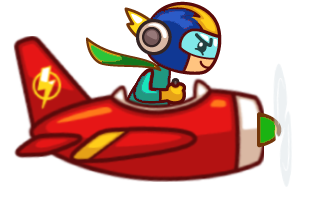
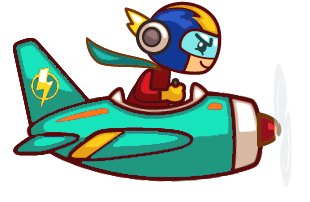
Addedd more components and minor changes

diff --git a/server.js b/server.js
@@ -16,7 +16,7 @@ const client = new NFTStorage({ token: apiKey });
 app.get("/first", async (req, res) => {
   await generateRandomImage();
   var characterId = req.query.characterId;
-  var characterName = "Character #" + characterId;
+  var characterName = "Plane #" + characterId;
   console.log("Character name: " + characterName);
 
   var speed = parseInt(req.query.score);

diff --git a/mixComponents.js b/mixComponents.js
@@ -5,7 +5,7 @@ var components = ["body", "collar", "helmet", "plane", "propeller"];
 var file_extension = ".png";
 var total_components = components.length;
 
-var num_images_per_component = [4, 4, 4, 4, 4];
+var num_images_per_component = [7, 7, 7, 7, 7];
 
 generateRandomImage();
 
